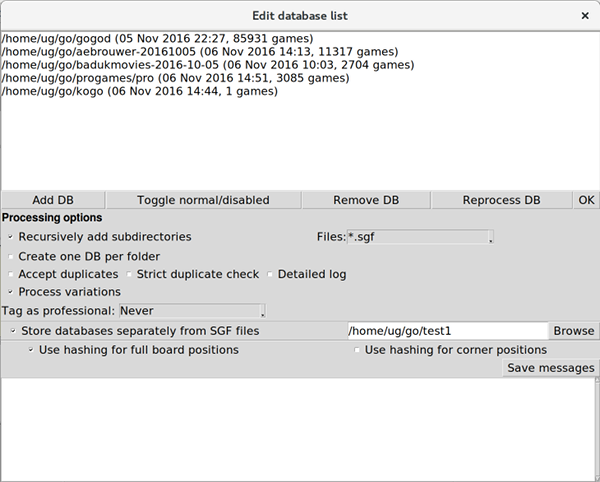
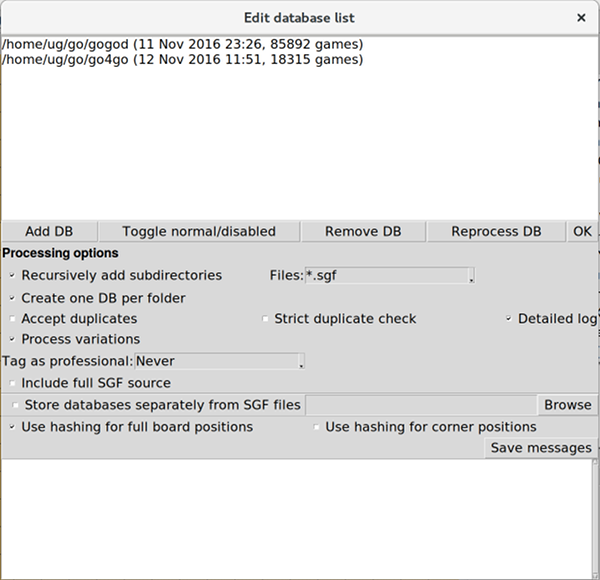
Fix broken Anywhere game info search; optionally add full SGF to db, only root node by default

Changed region(s): [[0.0, 0.0, 1.0, 1.0], [0.45, 0.4668, 0.63, 0.4979], [0.78, 0.4668, 0.81, 0.4979]]

diff --git a/kombilo/kombilo.py b/kombilo/kombilo.py
@@ -2053,7 +2053,7 @@ class App(v.Viewer, KEngine):
                 showwarning=showwarning,
                 index=index,
                 all_in_one_db=not self.options.oneDBperFolder.get(),
-                sgfInDB=False,
+                sgfInDB=self.options.include_full_sgf.get(),
                 logDuplicates=self.options.logDuplicates.get())
 
     def add_gl_at(self, index, gl, dbpath):
@@ -2292,15 +2292,15 @@ class App(v.Viewer, KEngine):
         recursionButton = Checkbutton(f3, text=_('Recursively add subdirectories'), highlightthickness=0, variable=self.options.recProcess, pady=5)
         recursionButton.grid(row=1, column=0, columnspan=2, sticky=W)
 
-        oneDBperFolderButton = Checkbutton(f3, text=_('Create one DB per folder'), highlightthickness=0, variable=self.options.oneDBperFolder, pady=5)
-        oneDBperFolderButton.grid(row=2, column=0, columnspan=2, sticky=W)
-
         self.filenamesVar = StringVar()
         filenamesLabel = Label(f3, anchor='w', text=_('Files:'), pady=10)
         filenamesLabel.grid(row=1, column=2, sticky=E)
         filenamesMenu = Combobox(f3, textvariable=self.filenamesVar, values=['*.sgf', '*.sgf, *.mgt', _('All files')], state='readonly')
         filenamesMenu.set('*.sgf')
         filenamesMenu.grid(row=1, column=3, sticky=W)
+
+        oneDBperFolderButton = Checkbutton(f3, text=_('Create one DB per folder'), highlightthickness=0, variable=self.options.oneDBperFolder, pady=5)
+        oneDBperFolderButton.grid(row=2, column=0, columnspan=2, sticky=W)
 
         # self.encodingVar = StringVar()
         #
@@ -2319,45 +2319,59 @@ class App(v.Viewer, KEngine):
         # encoding1Menu.set(_('Add CA tag'))
         # encoding1Menu.grid(row=1, column=5, sticky=W)
 
-        duplButton = Checkbutton(f3, text=_('Accept duplicates'), highlightthickness=0, variable=self.options.acceptDupl, pady=5)
-        duplButton.grid(row=3, column=0, sticky=W)
+        duplButton = Checkbutton(
+                f3, text=_('Accept duplicates'),
+                highlightthickness=0, variable=self.options.acceptDupl, pady=5)
+        duplButton.grid(row=3, column=0, columnspan=2, sticky=W)
 
-        strictDuplCheckButton = Checkbutton(f3, text=_('Strict duplicate check'), highlightthickness=0, variable=self.options.strictDuplCheck, pady=5)
-        strictDuplCheckButton.grid(row=3, column=1, sticky=W)
+        strictDuplCheckButton = Checkbutton(
+                f3, text=_('Strict duplicate check'),
+                highlightthickness=0, variable=self.options.strictDuplCheck, pady=5)
+        strictDuplCheckButton.grid(row=3, column=2, columnspan=2, sticky=W)
 
         logDuplCheckButton = Checkbutton(
                 f3, text=_('Detailed log'),
                 highlightthickness=0,
                 variable=self.options.logDuplicates,
                 pady=5)
-        logDuplCheckButton.grid(row=3, column=2, sticky=W)
+        logDuplCheckButton.grid(row=3, column=4, columnspan=2, sticky=W)
 
         processVariations = Checkbutton(f3, text=_('Process variations'), highlightthickness=0, variable=self.options.processVariations, pady=5)
-        processVariations.grid(row=5, column=0, sticky=W, columnspan=2)
+        processVariations.grid(row=4, column=0, sticky=W, columnspan=2)
 
         profTagLabel = Label(f3, anchor='e', text=_('Tag as professional:'), pady=8)
-        profTagLabel.grid(row=6, column=0, sticky=W, )
+        profTagLabel.grid(row=5, column=0, sticky=W, )
         profTag = Combobox(f3, justify='left', textvariable=self.options.tagAsPro,
                                values=[_('Never'), _('All games'), _('All games with p-rank players'), ], state='readonly')
-        profTag.grid(row=6, column=1, columnspan=2, sticky=W)
+        profTag.grid(row=5, column=1, columnspan=2, sticky=W)
+
+        includeFullSGFButton = Checkbutton(f3, text=_('Include full SGF source'), highlightthickness=0, variable=self.options.include_full_sgf, pady=5)
+        includeFullSGFButton.grid(row=6, column=0, columnspan=2, sticky=W)
+
 
         sep = Separator(f3, orient='horizontal')
         sep.grid(row=7, column=0, columnspan=7, sticky=NSEW)
-        whereDatabasesButton = Checkbutton(f3, text=_('Store databases separately from SGF files'), highlightthickness=0,
-                                           command=self.toggleWhereDatabases, variable=self.options.storeDatabasesSeparately, padx=8)
+        whereDatabasesButton = Checkbutton(
+                f3,
+                text=_('Store databases separately from SGF files'),
+                highlightthickness=0,
+                command=self.toggleWhereDatabases,
+                variable=self.options.storeDatabasesSeparately,
+                padx=8)
         whereDatabasesButton.grid(row=8, column=0, columnspan=3, sticky=W)
 
-        self.whereDatabasesEntry = Entry(f3, textvariable=self.options.whereToStoreDatabases, )
-        self.whereDatabasesEntry.grid(row=8, column=3, columnspan=3, sticky=NSEW)
+        self.whereDatabasesEntry = Entry(
+                f3, textvariable=self.options.whereToStoreDatabases, )
+        self.whereDatabasesEntry.grid(row=8, column=3, columnspan=2, sticky=NSEW)
         if not self.options.storeDatabasesSeparately.get():
             self.whereDatabasesEntry.config(state=DISABLED)
 
         browseButton = Button(f3, text=_('Browse'), command=self.browseDatabases)
         browseButton.grid(row=8, column=5)
         f3.grid_columnconfigure(0, weight=1)
-        f3.grid_columnconfigure(1, weight=2)
-        f3.grid_columnconfigure(2, weight=2)
-        f3.grid_columnconfigure(3, weight=2)
+        f3.grid_columnconfigure(1, weight=1)
+        f3.grid_columnconfigure(2, weight=1)
+        f3.grid_columnconfigure(3, weight=1)
 
         sep1 = Separator(f3, orient='horizontal')
         sep1.grid(row=9, column=0, columnspan=7, sticky=NSEW)
@@ -2368,7 +2382,8 @@ class App(v.Viewer, KEngine):
         self.algo_hash_corner = Checkbutton(f3, text=_('Use hashing for corner positions'), highlightthickness=0, variable=self.options.algo_hash_corner, pady=5)
         self.algo_hash_corner.grid(row=10, column=3, columnspan=2)
 
-        self.saveProcMess = Button(f4, text=_('Save messages'), command=self.saveMessagesEditDBlist)
+        self.saveProcMess = Button(
+                f4, text=_('Save messages'), command=self.saveMessagesEditDBlist)
         self.saveProcMess.pack(side=RIGHT)
         self.processMessages = Message(f5)
         self.processMessages.pack(side=TOP, expand=YES, fill=BOTH)

diff --git a/kombilo/libkombilo/search.cpp b/kombilo/libkombilo/search.cpp
@@ -1182,7 +1182,6 @@ string GameList::getSignature(int i) throw(DBError) {
 }
 
 string GameList::getSGF(int i) throw(DBError) {
-  if (!p_op->sgfInDB) return "";
   return getCurrentProperty(i, "sgf");
 }
 
@@ -1324,15 +1323,10 @@ void GameList::createGamesDB() throw(DBError) {
   sql1 +=                  "fphash long, ";             // hashcode of final position to detect duplicates
   sql1 +=                  "dbtree text, ";
   sql1 +=                  "date date";
+  sql1 +=                ", sgf text";  // contains full sgf if sgfInDB == true, otherwise only the root node
 
-  sql_ins_rnp =            "insert into GAMES (path, filename, pos, dbtree, date";
-  string question_marks =  "?,?,?,?,?";
-
-  if (p_op->sgfInDB) {
-    sql1 +=                ", sgf text";
-    sql_ins_rnp +=         ", sgf";
-    question_marks += ",?";
-  }
+  sql_ins_rnp =            "insert into GAMES (path, filename, pos, dbtree, date, sgf";
+  string question_marks =  "?,?,?,?,?,?";
 
   SGFtagsSize = SGFtags->size();
   int ctr = 0;
@@ -1596,15 +1590,22 @@ int GameList::process(const char* sgf, const char* path, const char* fn, std::ve
     if (rc != SQLITE_OK) throw DBError();
 
     if (p_op->sgfInDB) {
-      if (c->root->numChildren == 1) rc = sqlite3_bind_text(ppStmt, stmt_ctr++, sgf, -1, SQLITE_TRANSIENT); 
+      if (c->root->numChildren == 1) rc = sqlite3_bind_text(ppStmt, stmt_ctr++, sgf, -1, SQLITE_TRANSIENT);
       else {
         string s= "(";
         s += c->outputVar(root);
         s+= ")";
         rc = sqlite3_bind_text(ppStmt, stmt_ctr++, s.c_str(), -1, SQLITE_TRANSIENT); 
       }
-      if (rc != SQLITE_OK) throw DBError();
+    } else {
+      // Write only root node to sgf column.
+      // Add () to make this a valid "SGF file" of its own.
+      string s= "(";
+      s += root->SGFstring.c_str();
+      s+= ")";
+      rc = sqlite3_bind_text(ppStmt, stmt_ctr++, s.c_str(), -1, SQLITE_TRANSIENT); 
     }
+    if (rc != SQLITE_OK) throw DBError();
 
     for(int i=0; i < SGFtagsSize; i++) {
       rc = sqlite3_bind_text(ppStmt, stmt_ctr++, (*rootNodeProperties)[i].c_str(), -1, SQLITE_TRANSIENT); 
@@ -1920,7 +1921,7 @@ int GameList::process(const char* sgf, const char* path, const char* fn, std::ve
     delete rootNodeProperties;
     process_results_vector.push_back(return_val);
     // printf("return_val %d\n", return_val);
-    root = root->down;
+    root = root->down; // now look at next game in this collection
     pos++;
   }
   delete c;

diff --git a/kombilo/kombiloNG.py b/kombilo/kombiloNG.py
@@ -432,8 +432,12 @@ class GameList(object):
         return self.DBlist[DBindex]['data'][pos][prop]
 
     def getSGF(self, index):
-        '''Return the SGF source of the game at position ``index`` in the current
+        '''
+        Return the SGF source of the game at position ``index`` in the current
         list of games.
+
+        This returns the SGF if sgfInDB was True when processing the db;
+        otherwise it returns the root node SGF.
         '''
         DBindex, game = self.getIndex(index)
         if DBindex == -1:

diff --git a/doc/manual.rst b/doc/manual.rst
@@ -358,6 +358,18 @@ database for pattern search. You can also select whether all games (or
 none) of the database should be considered as pro games, or whether this
 should be decided by the rank specified in the files.
 
+**Strict duplicate check**
+This option affects how Kombilo decides whether two games are a duplicate of
+each other. Usually, two games are compared using the :ref:`Dyer signature
+<signature-search>`. If *Strict duplicate check* is selected, Kombilo in
+addition compares the final positions of the two games. In the very rare (but
+existent) case that two different games have the same Dyer signature, this is
+a more precise check. It has the disadvantages of being slower, and of marking
+games as different where there is just a small variation in the recording of the
+end game moves (which also is a rare, but existent phenomenon in the SGF
+collections around).
+
+**Create one DB per folder.**
 The default behavior of Kombilo is to create one database per folder (so
 descending recursively into some folder many databases might be created).
 Whether this is suitable or not depends on the number of folders, and the number
@@ -378,6 +390,17 @@ The hashing algorithms speed up searches for full board and corner
 positions respectively, on the other hand the procesing takes slightly
 longer, more disk space is consumed, and Kombilo uses more memory when
 running, and especially when processing new games.
+
+**Include full SGF**
+Usually Kombilo puts the *root node* of each SGF file into the database. This
+contains all the game information (such as player names, event, etc.), but not
+the moves themselves. From inside Kombilo this information can be accessed using
+the *Anywhere* field in the game info search. If there you also want to access
+the moves of the game (or if you want to use a database from your own scripts
+and need that information there), select this option. Then the full SGF will be
+copied to the database. Correspondingly, the database files will be much larger.
+(This is not required for the pattern search, nor for opening and playing
+through games from the game list.)
 
 
 .. index::

diff --git a/doc/tutorial.rst b/doc/tutorial.rst
@@ -630,11 +630,6 @@ You can reset the counter by quitting and reentering the "guess next move" mode.
 Known issues
 ============
 
-Anywhere field of game info search
-----------------------------------
-
-Searches in the *Anywhere* field have no effect in Kombilo 0.8.2.
-
 Menu bar not shown
 ------------------
 
